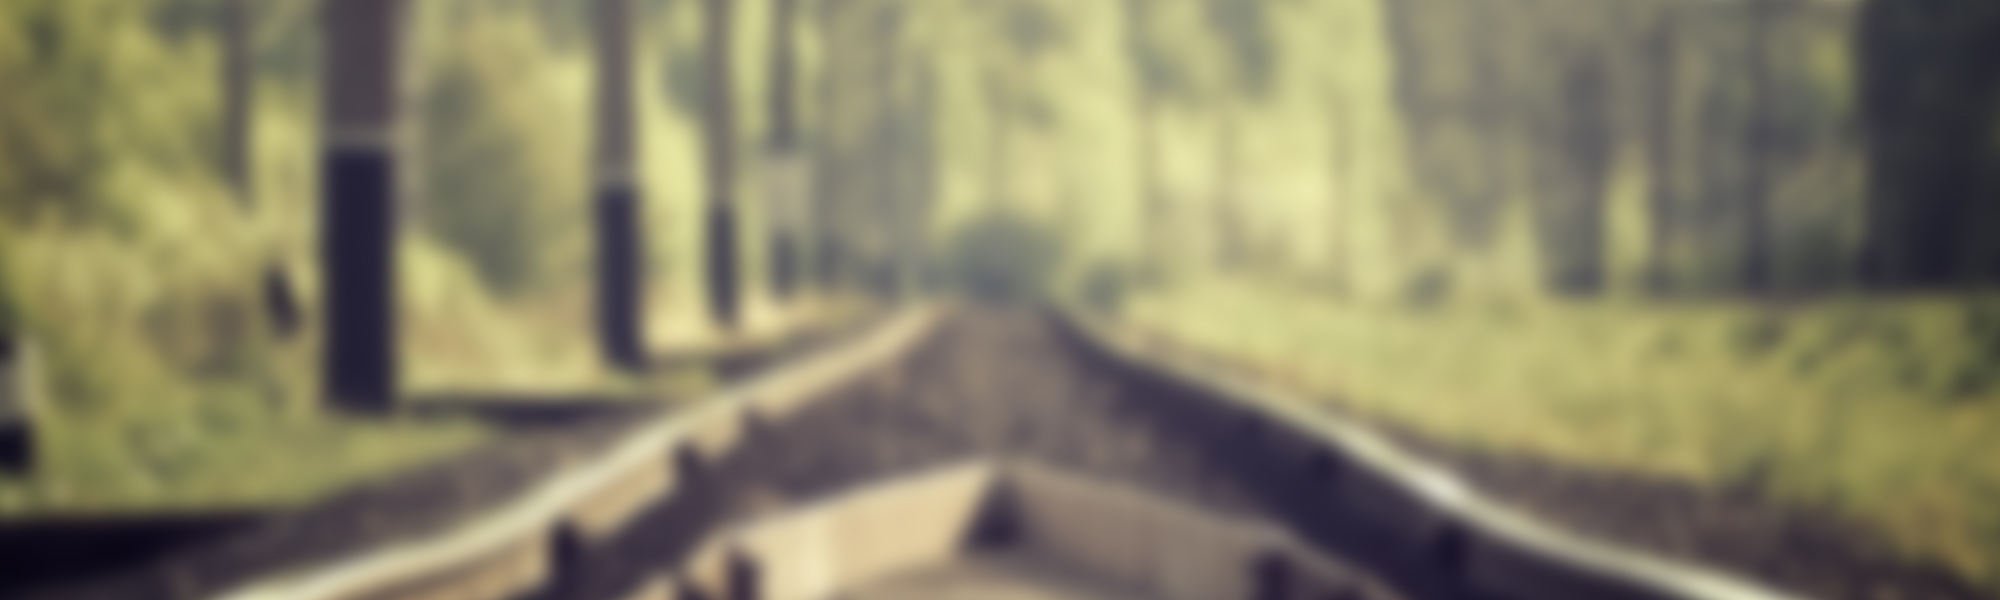
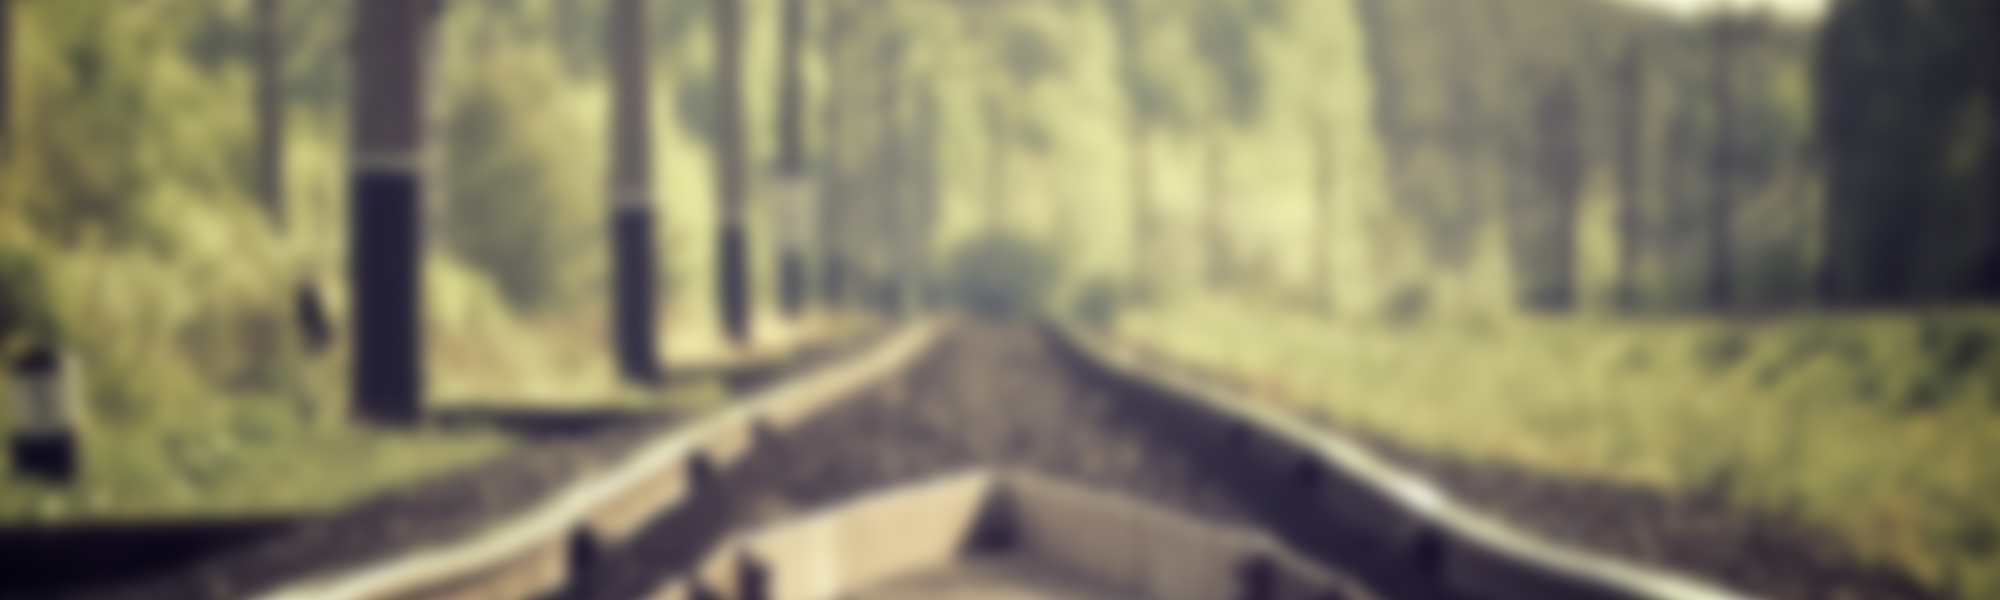
Removed dynamic header bg image code and tweaked some styles slightly

diff --git a/public/css/style.css b/public/css/style.css
@@ -14,7 +14,7 @@ body {
 /* -------------------------------------------------------------------------- */
 
 #site-header {
-    background-image: url('/img/header_images/1.jpg');
+    background-image: url('/img/header_images/tracks.jpg');
     background-position: center;
     background-size: cover;
     padding: 50px 0;
@@ -55,7 +55,7 @@ body {
     font-weight: 700;
     margin: 0;
     opacity: 0.9;
-    text-shadow: 0 1px 3px rgba(0, 0, 0, 0.5);
+    text-shadow: 0 1px 3px rgba(0, 0, 0, 0.75);
 }
 
 .title-text small {
@@ -64,7 +64,7 @@ body {
     font-size: 2rem;
     line-height: 2rem;
     opacity: 0.9;
-    text-shadow: 0 1px 3px rgba(0, 0, 0, 0.5);
+    text-shadow: 0 1px 3px rgba(0, 0, 0, 0.75);
 }
 
 .contact-info {
@@ -157,7 +157,7 @@ body {
     font-family: Arvo, serif;
     font-weight: normal;
     margin: 0;
-    padding: 10px;
+    padding: 10px 15px;
     position: absolute;
     top: -10px;
     left: -10px;

diff --git a/module/Application/src/Application/Controller/IndexController.php b/module/Application/src/Application/Controller/IndexController.php
@@ -18,28 +18,23 @@ class IndexController extends AbstractActionController
     public function indexAction()
     {
 
-        // Initialize view model
+        // Initialize the view model
         $view = new ViewModel();
 
-        // Get array of images
-        $iterator = new DirectoryIterator('public/img/header_images');
-
-        // print_r($images); die(); // Debugging
-
         // Build array of file names
-        foreach ($iterator as $file) {
-            if (!$file->isDot()) {
-                $headerImages[] = $file->getFilename();
-            }
-        }
+        // foreach (new DirectoryIterator('public/img/header_images') as $file) {
+        //     if (!$file->isDot()) {
+        //         $headerImages[] = $file->getFilename();
+        //     }
+        // }
 
         // print_r($headerImages); die(); // Debugging
 
         // Shuffle the array
-        shuffle($headerImages);
+        // shuffle($headerImages);
 
         // Pass header image to the view
-        $view->setVariable('headerImage', $headerImages[0]);
+        // $view->setVariable('headerImage', $headerImages[0]);
 
         return $view;
     }
